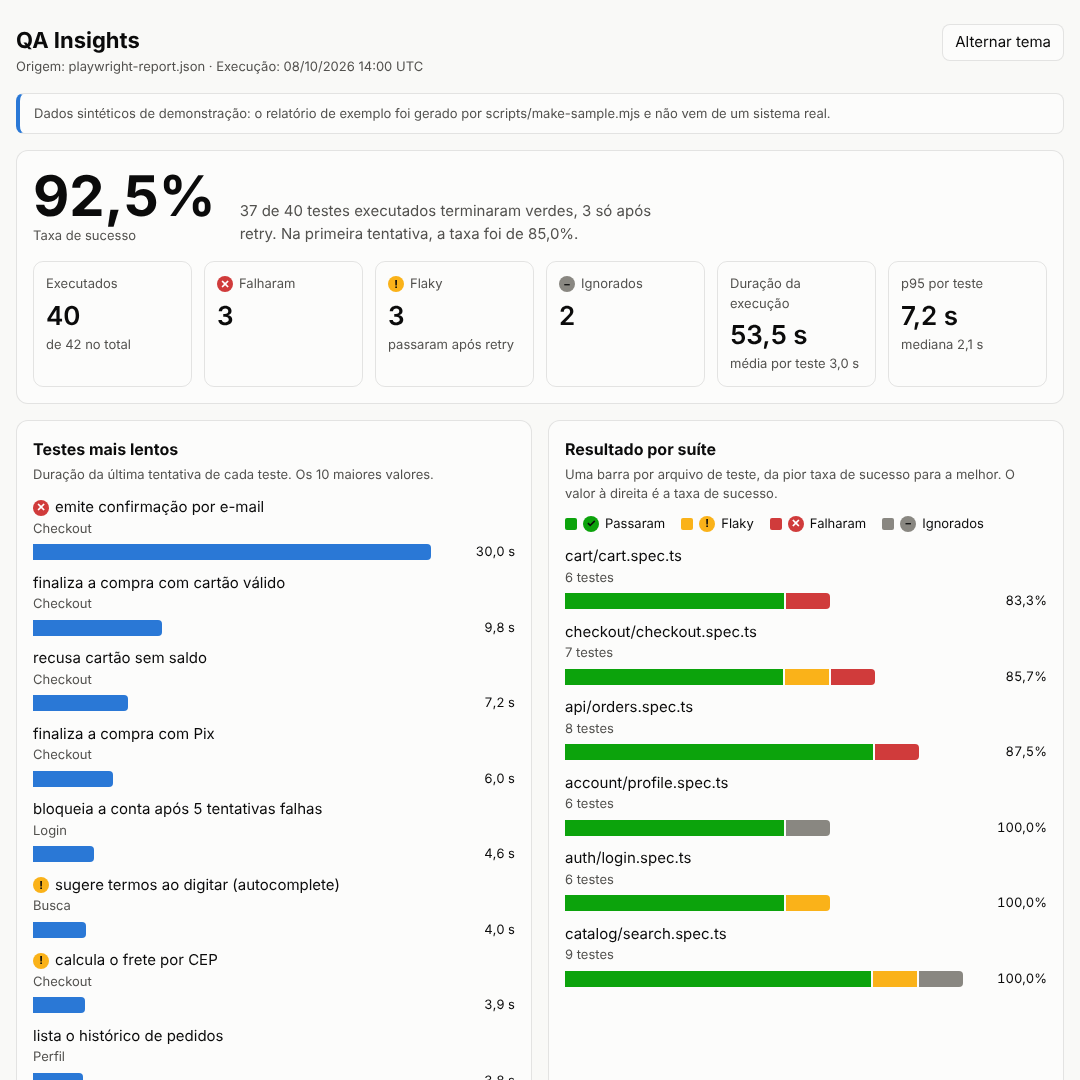
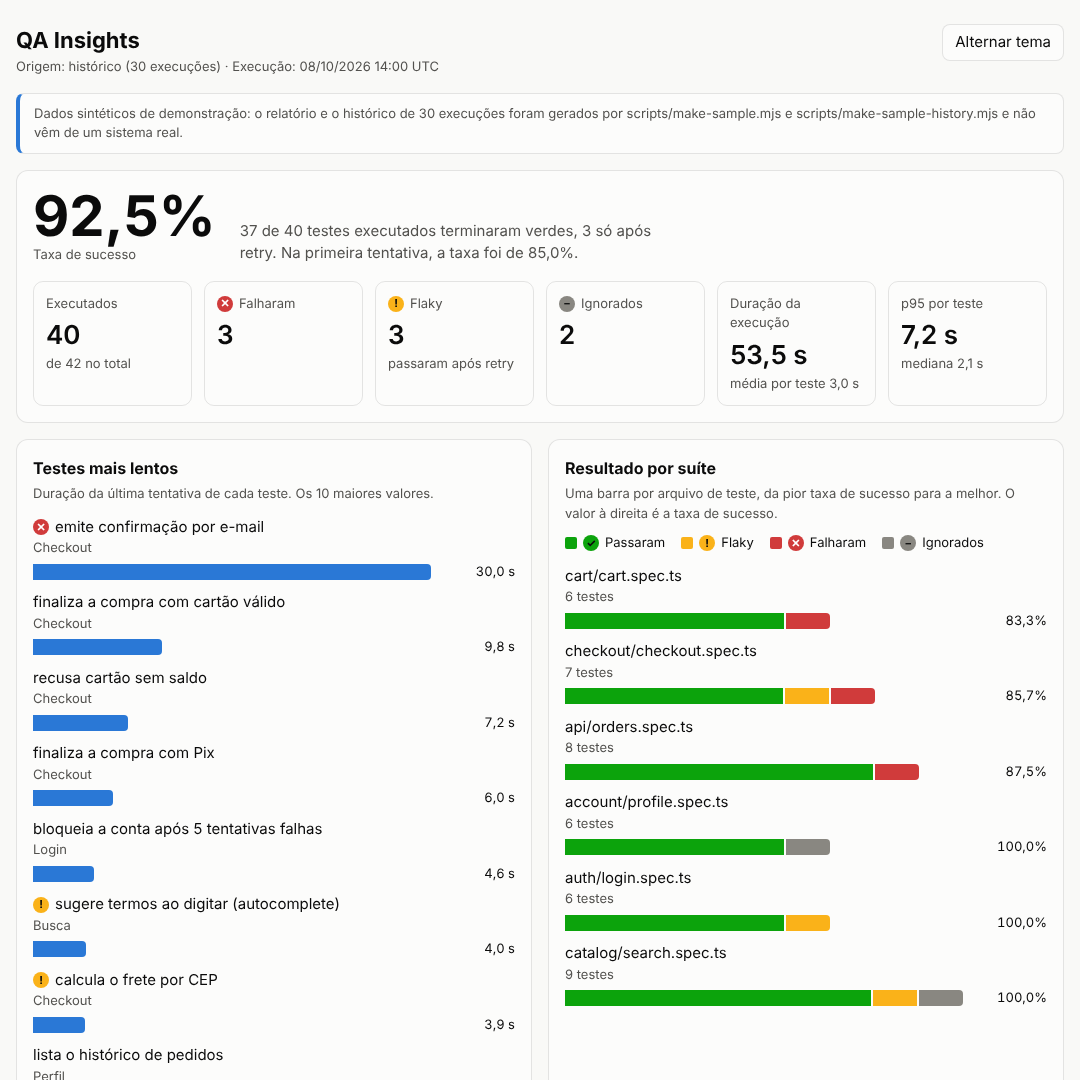
docs: README da Fase 2, previews e conferência de exemplos no CI
Claude-Session: https://claude.ai/code/session_0174yssMxM817m7LSUrYAkeU

diff --git a/README.md b/README.md
@@ -1,22 +1,28 @@
 # QA Insights
 
-Transforma o relatório JSON do Playwright em um dashboard de qualidade: taxa de sucesso, testes mais lentos, resultado por suíte e a lista de falhas e testes instáveis (*flaky*), tudo em uma única página HTML.
+Transforma o relatório JSON do Playwright em um dashboard de qualidade: taxa de sucesso, testes mais lentos, resultado por suíte, falhas e, a partir do histórico de execuções, **quais testes são instáveis (*flaky*) e quais estão quebrados de verdade**. Tudo em uma única página HTML.
 
 ![Dashboard gerado a partir do relatório de exemplo](docs/preview.png)
 
-> **Dados de demonstração.** O relatório em `data/sample/` é **sintético**: foi gerado por [`scripts/make-sample.mjs`](scripts/make-sample.mjs) para uma loja virtual fictícia, com semente fixa (mesma saída a cada execução). Nenhum número aqui vem de um sistema real.
+![Análise de instabilidade nas últimas 20 execuções](docs/preview-instabilidade.png)
+
+> **Dados de demonstração.** O relatório e o histórico de 30 execuções em `data/sample/` são **sintéticos**: foram gerados por [`scripts/make-sample.mjs`](scripts/make-sample.mjs) e [`scripts/make-sample-history.mjs`](scripts/make-sample-history.mjs) para uma loja virtual fictícia, com semente fixa (mesma saída a cada execução). Cada teste do histórico recebe um comportamento definido de propósito (instável, regressão, bug persistente, estável) para a análise ter o que encontrar. Nenhum número aqui vem de um sistema real.
 
 ## Por que isso existe
 
-O relatório padrão do Playwright mostra **uma execução**. Quem mantém uma suíte automatizada precisa responder perguntas que um relatório isolado não responde bem: quais testes estão instáveis, onde está o tempo do CI, qual suíte concentra as falhas. Este projeto começa pela base disso (a leitura e a análise de uma execução) e evolui para o histórico entre execuções (ver [Roadmap](#roadmap)).
+O relatório padrão do Playwright mostra **uma execução**. Quem mantém uma suíte automatizada precisa responder perguntas que um relatório isolado não responde: quais testes estão instáveis, qual falha é regressão e qual é ruído, onde está o tempo do CI. Este projeto responde a primeira com o histórico entre execuções e as demais com a execução mais recente.
 
 ## Status
 
-**Fase 1: análise de uma execução.** Já faz: lê o JSON, calcula as métricas e gera o dashboard. Ainda não faz: histórico entre execuções e tendência. Isso é a Fase 2.
+- **Fase 1:** análise de uma execução e dashboard. Concluída.
+- **Fase 2:** histórico de execuções e taxa de instabilidade por teste. Concluída.
+- **Fase 3 (próxima):** gráficos de tendência, registro automático no CI e deploy público. Ver [Roadmap](#roadmap).
 
 ## Uso
 
 Requer Node.js 20 ou superior. Não há dependências para instalar.
+
+**Uma execução (Fase 1):**
 
 ```bash
 # 1. Gere o relatório JSON no seu projeto com Playwright
@@ -28,14 +34,29 @@ node src/cli.mjs report.json --out dashboard.html --title "Meu projeto"
 
 Também dá para configurar o reporter no `playwright.config.ts`: `reporter: [['json', { outputFile: 'report.json' }]]`.
 
-Para ver com os dados de exemplo:
+**Com histórico (Fase 2):**
 
 ```bash
-npm run build      # regenera docs/index.html a partir de data/sample/
+# Depois de cada execução da suíte, guarde o resultado no histórico
+node src/cli.mjs ingest report.json --history qa-history --branch main --commit "$(git rev-parse HEAD)"
+
+# Gere o dashboard com a análise de instabilidade
+node src/cli.mjs report.json --history qa-history --out dashboard.html
+# ou, sem o relatório, usando a última execução do próprio histórico:
+node src/cli.mjs --history qa-history --out dashboard.html
+```
+
+O `ingest` é idempotente: o id da execução vem do hash do relatório, então registrar o mesmo arquivo duas vezes (por exemplo, numa re-execução do CI) não duplica nada. Use `--run-id` para registrar de propósito como outra execução.
+
+**Com os dados de exemplo:**
+
+```bash
+npm run sample     # regenera o relatório e o histórico sintéticos (resultado idêntico a cada vez)
+npm run build      # regenera docs/index.html
 npm test           # roda os testes do próprio projeto
 ```
 
-Opções da CLI: `--out`, `--title`, `--note` (aviso no topo da página), `--slowest <n>` (quantos testes lentos listar) e `--help`.
+Opções do dashboard: `--out`, `--title`, `--note` (aviso no topo), `--slowest <n>`, `--history <pasta>` e `--window <n>` (quantas execuções recentes analisar, padrão 20). `--help` mostra tudo.
 
 Para publicar no GitHub Pages: *Settings → Pages → Deploy from a branch → `main` / `/docs`*.
 
@@ -52,6 +73,31 @@ Para publicar no GitHub Pages: *Settings → Pages → Deploy from a branch → 
 
 Testes ignorados ficam fora da taxa e das estatísticas de duração. Quando não há nenhum teste executado, a taxa é `null` (exibida como "–"), nunca 0% nem 100%.
 
+## Como a instabilidade é calculada
+
+A análise olha as últimas N execuções do histórico (padrão 20). Em cada execução em que o teste rodou, ele é **inconsistente** se terminou *flaky* ou se o resultado **virou** em relação à execução anterior em que rodou (verde para vermelho, ou o contrário).
+
+> taxa de instabilidade = execuções inconsistentes ÷ execuções em que o teste rodou
+
+Cada teste recebe um rótulo, avaliado nesta ordem:
+
+| Rótulo | Regra | Por quê |
+|---|---|---|
+| Insuficiente | rodou menos de 5 vezes na janela | pouca amostra gera números enganosos |
+| **Falha persistente** | vermelho há 3 execuções seguidas ou mais, com no máximo 1 virada | é uma falha determinística (regressão ou bug), não instabilidade |
+| **Instável** | pelo menos 2 execuções inconsistentes **e** taxa de 10% ou mais | alterna ou depende de retry com frequência |
+| Estável | o resto | |
+
+O critério existe para separar dois problemas que exigem ações diferentes: **ruído** (instável, investigar a causa da flakiness) e **defeito** (falha persistente, corrigir o produto ou o teste). Duas regras evitam falsos positivos em histórico curto: um evento isolado não é padrão (por isso o mínimo de 2), e uma regressão que acabou de acontecer vira uma única "virada", então nunca é rotulada como instável. Os limites ficam em [`src/flakiness.mjs`](src/flakiness.mjs).
+
+No histórico de exemplo, o resultado é 4 testes instáveis, 2 falhas persistentes (uma regressão que começou na execução 24 e um bug da API aberto desde a execução 12) e 34 estáveis, entre eles 5 que tiveram um retry ocasional e que a regra corretamente não trata como instabilidade.
+
+## Formato do histórico
+
+Uma pasta com **um arquivo JSON por execução** (`2026-10-08T14-00-00-000Z_a8d9ba0f2170.json`), com o essencial de cada teste: identidade, status, duração, tentativas e a primeira linha do erro. O nome começa pela data, então ordenar por nome é ordenar no tempo. Gravar uma execução nunca altera as anteriores (sem conflito de merge), a pasta pode ser versionada no Git e a leitura falha com o nome do arquivo se algum estiver corrompido, em vez de calcular taxas erradas em silêncio.
+
+Cada teste é identificado por **arquivo + describes + título + projeto**. O `spec.id` do Playwright e o número da linha não entram, porque mudam entre execuções e quebrariam o acompanhamento do mesmo teste ao longo do tempo.
+
 ## Decisões técnicas
 
 - **Zero dependências.** Node puro (`node:test`, `node:util`, `Intl`). Nada para instalar, nada para atualizar, nada a auditar.
@@ -59,33 +105,37 @@ Testes ignorados ficam fora da taxa e das estatísticas de duração. Quando nã
 - **Dados do relatório são não confiáveis.** Títulos de teste e mensagens de erro passam por escape antes de entrar na página. Há um teste com payloads de XSS para garantir isso.
 - **Saída determinística.** A mesma entrada gera exatamente o mesmo HTML (datas em UTC, sem horário de geração). Isso permite que o CI detecte se o dashboard publicado ficou desatualizado em relação ao código.
 - **Acessibilidade.** Status nunca depende só de cor (ícone e rótulo em todos os lugares), há tooltip por teclado, tema claro e escuro e layout que funciona em tela de celular.
-- **Erros claros na CLI.** Arquivo inexistente, JSON quebrado e JSON que não é do Playwright geram mensagens diferentes e código de saída 1.
+- **Erros claros na CLI.** Arquivo inexistente, JSON quebrado, JSON que não é do Playwright, histórico vazio ou corrompido e opções inválidas geram mensagens diferentes e código de saída 1.
+- **Entrada validada.** O `--run-id` vira parte do nome de um arquivo, então só aceita letras, números, ponto, hífen e sublinhado (nada de `../`).
 
 ## Qualidade do próprio projeto
 
 Um projeto de QA precisa ser testado como qualquer outro:
 
-- **Testes unitários e de integração** do parser, das métricas, da renderização e da CLI (`npm test`), incluindo casos de borda: relatório vazio, só testes ignorados, status ausente no JSON, mesmo teste em projetos diferentes, código ANSI em mensagens de erro.
-- **Teste de regressão com números de referência** sobre o relatório de exemplo.
-- **Verificação por mutação (manual).** Durante o desenvolvimento, bugs foram injetados de propósito (flaky fora da taxa, `esc` sem escapar `<`, percentil com `floor`, duração de ignorado) para confirmar que os testes falham. Um dos casos sobreviveu e gerou um teste novo.
-- **CI** (GitHub Actions) em Node 20 e 22, que também falha se `docs/index.html` ou o relatório de exemplo estiverem fora de sincronia com o código.
+- **Testes unitários e de integração** do parser, das métricas, do histórico, da análise de instabilidade, da renderização e da CLI (`npm test`), com foco em casos de borda: relatório vazio, só testes ignorados, status ausente no JSON, mesmo teste em projetos diferentes, código ANSI em mensagens de erro, id de execução malicioso, arquivo de histórico corrompido, limites exatos dos critérios de classificação.
+- **Testes de regressão com números de referência** sobre o relatório e o histórico de exemplo.
+- **Verificação por mutação (manual).** Bugs foram injetados de propósito no código para confirmar que os testes falham. Na Fase 1, 4 bugs: um sobreviveu (duração de teste ignorado) e gerou um teste novo. Na Fase 2, 13 bugs nos módulos de histórico e instabilidade (limite `>` no lugar de `>=`, janela pegando as execuções mais antigas, deduplicação por substring, identidade do teste via `spec.id`, entre outros), todos detectados.
+- **Um defeito de projeto achado no caminho.** Ao gerar o histórico sintético, ficou claro que usar o `spec.id` como identidade do teste impediria seguir o mesmo teste entre execuções. A identidade foi trocada e ganhou testes próprios.
+- **CI** (GitHub Actions) em Node 20 e 22, que também falha se `docs/index.html`, o relatório de exemplo ou o histórico de exemplo estiverem fora de sincronia com o código.
 
 ## Estrutura
 
 ```
-src/parse.mjs      lê o JSON do Playwright e normaliza os testes
-src/metrics.mjs    taxa de sucesso, duração, p95, agrupamento por suíte
-src/render.mjs     gera a página HTML do dashboard
-src/cli.mjs        interface de linha de comando
-scripts/           gerador do relatório de exemplo (sintético)
-data/sample/       relatório de exemplo
-docs/              dashboard gerado e imagem de preview
-test/              testes do projeto
+src/parse.mjs       lê o JSON do Playwright e normaliza os testes
+src/metrics.mjs     taxa de sucesso, duração, p95, agrupamento por suíte
+src/history.mjs     gravação (idempotente) e leitura validada do histórico
+src/flakiness.mjs   taxa de instabilidade e classificação por teste
+src/render.mjs      gera a página HTML do dashboard
+src/cli.mjs         interface de linha de comando (dashboard e ingest)
+scripts/            geradores do relatório e do histórico de exemplo (sintéticos)
+data/sample/        relatório e histórico de exemplo
+docs/               dashboard gerado e imagens de preview
+test/               testes do projeto
 ```
 
 ## Roadmap
 
 - [x] **Fase 1:** análise de uma execução e dashboard estático
-- [ ] **Fase 2:** guardar o histórico de execuções e calcular a taxa de *flakiness* por teste
-- [ ] **Fase 3:** gráficos de tendência, filtros por período e deploy público automático
+- [x] **Fase 2:** histórico de execuções e taxa de instabilidade por teste
+- [ ] **Fase 3:** gráficos de tendência (taxa de sucesso e duração ao longo das execuções), registro automático do histórico no CI e deploy público
 - [ ] **Fase 4 (opcional):** alerta (Slack/Discord) quando a instabilidade passar de um limite
